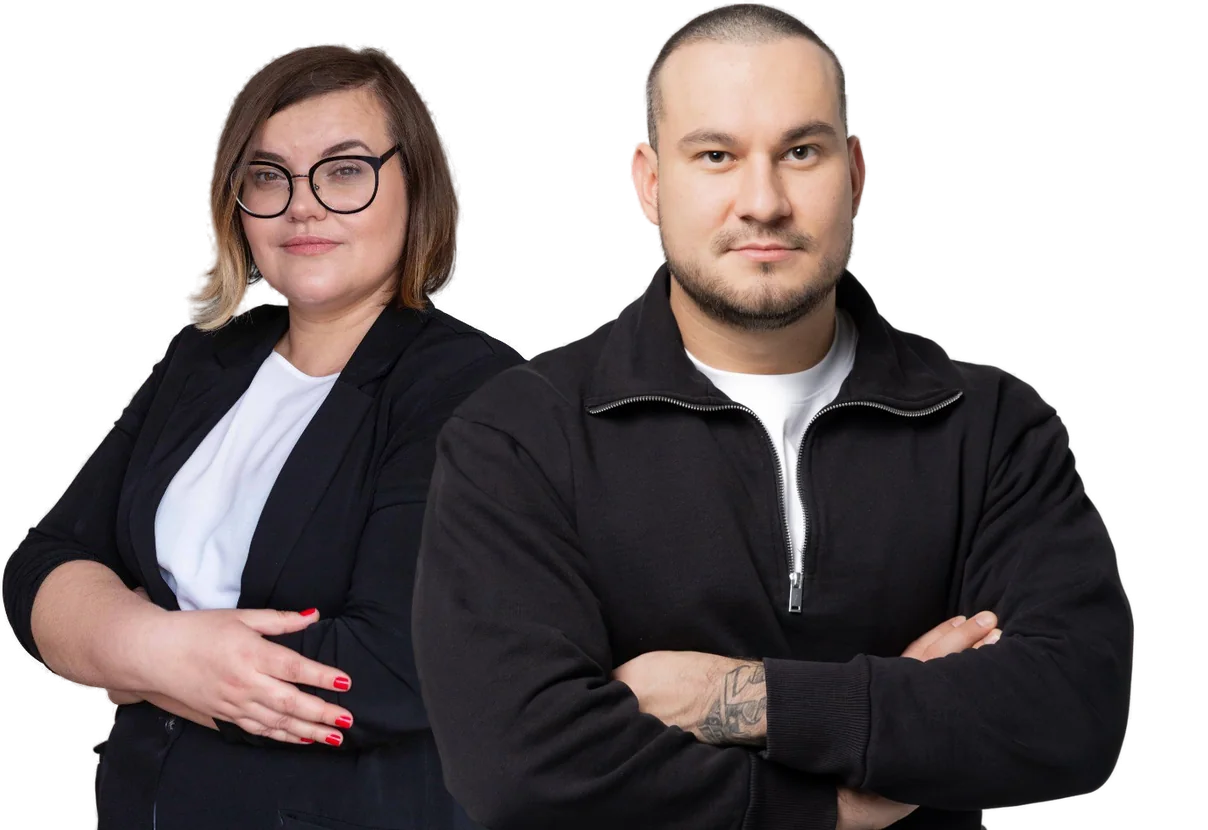
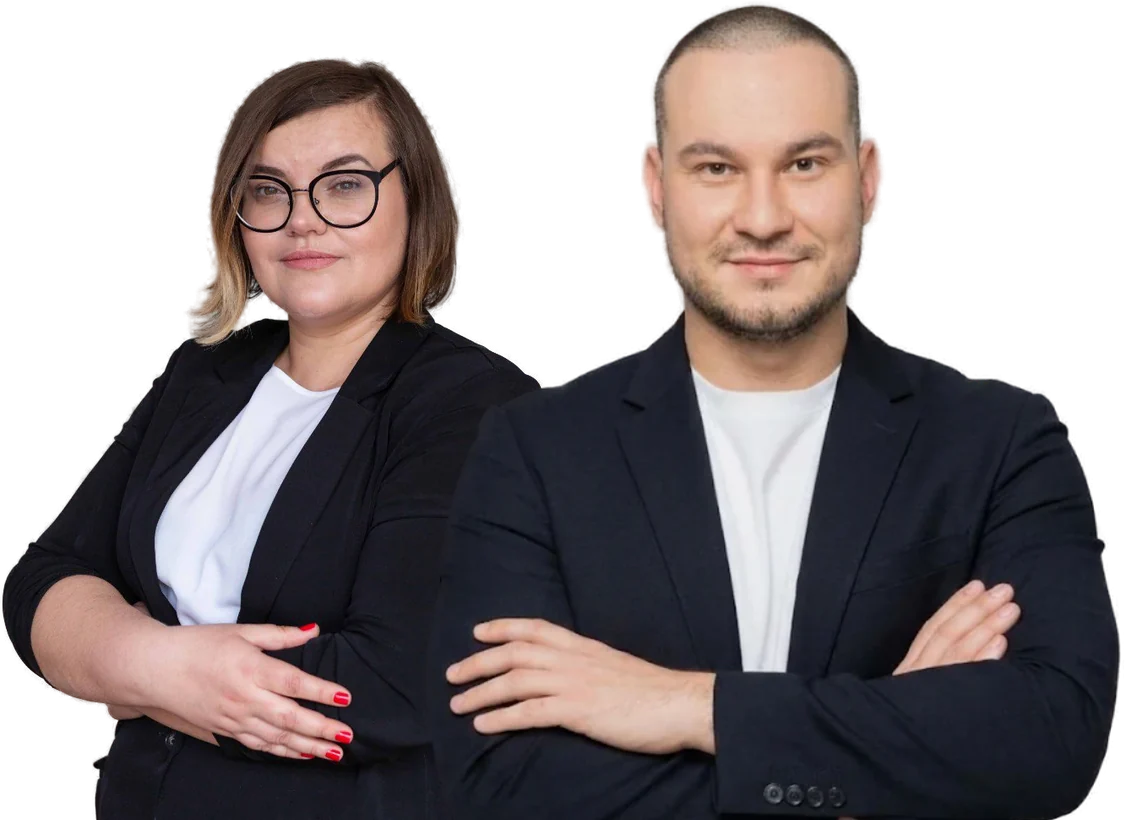
Первый экран v3: Юрий в пиджаке, в одном стиле с Лилией (на согласовании)
Claude-Session: https://claude.ai/code/session_01Jsi4R3DQwjYsar1VJicW94

diff --git a/src/components/landing/Hero.tsx b/src/components/landing/Hero.tsx
@@ -67,12 +67,12 @@ const Hero = () => {
         <figure className="relative mx-auto w-full max-w-[560px] self-end px-5 lg:mx-0 lg:max-w-none lg:px-10 xl:pr-14">
           <div aria-hidden className="absolute bottom-[-12%] left-1/2 aspect-square w-[92%] -translate-x-1/2 rounded-full bg-pale" />
           <img
-            src="/team-pair.webp?v=2"
-            srcSet="/team-pair-720.webp?v=2 720w, /team-pair.webp?v=2 1208w"
+            src="/team-pair.webp?v=3"
+            srcSet="/team-pair-720.webp?v=3 720w, /team-pair.webp?v=3 1125w"
             sizes="(max-width: 1023px) 92vw, 46vw"
             alt="Лилия Ковальчук и Юрий Ситников, agregatory.pro"
-            width={1208}
-            height={830}
+            width={1125}
+            height={820}
             {...{ fetchpriority: "high" }}
             decoding="async"
             className="relative block h-auto w-full"
